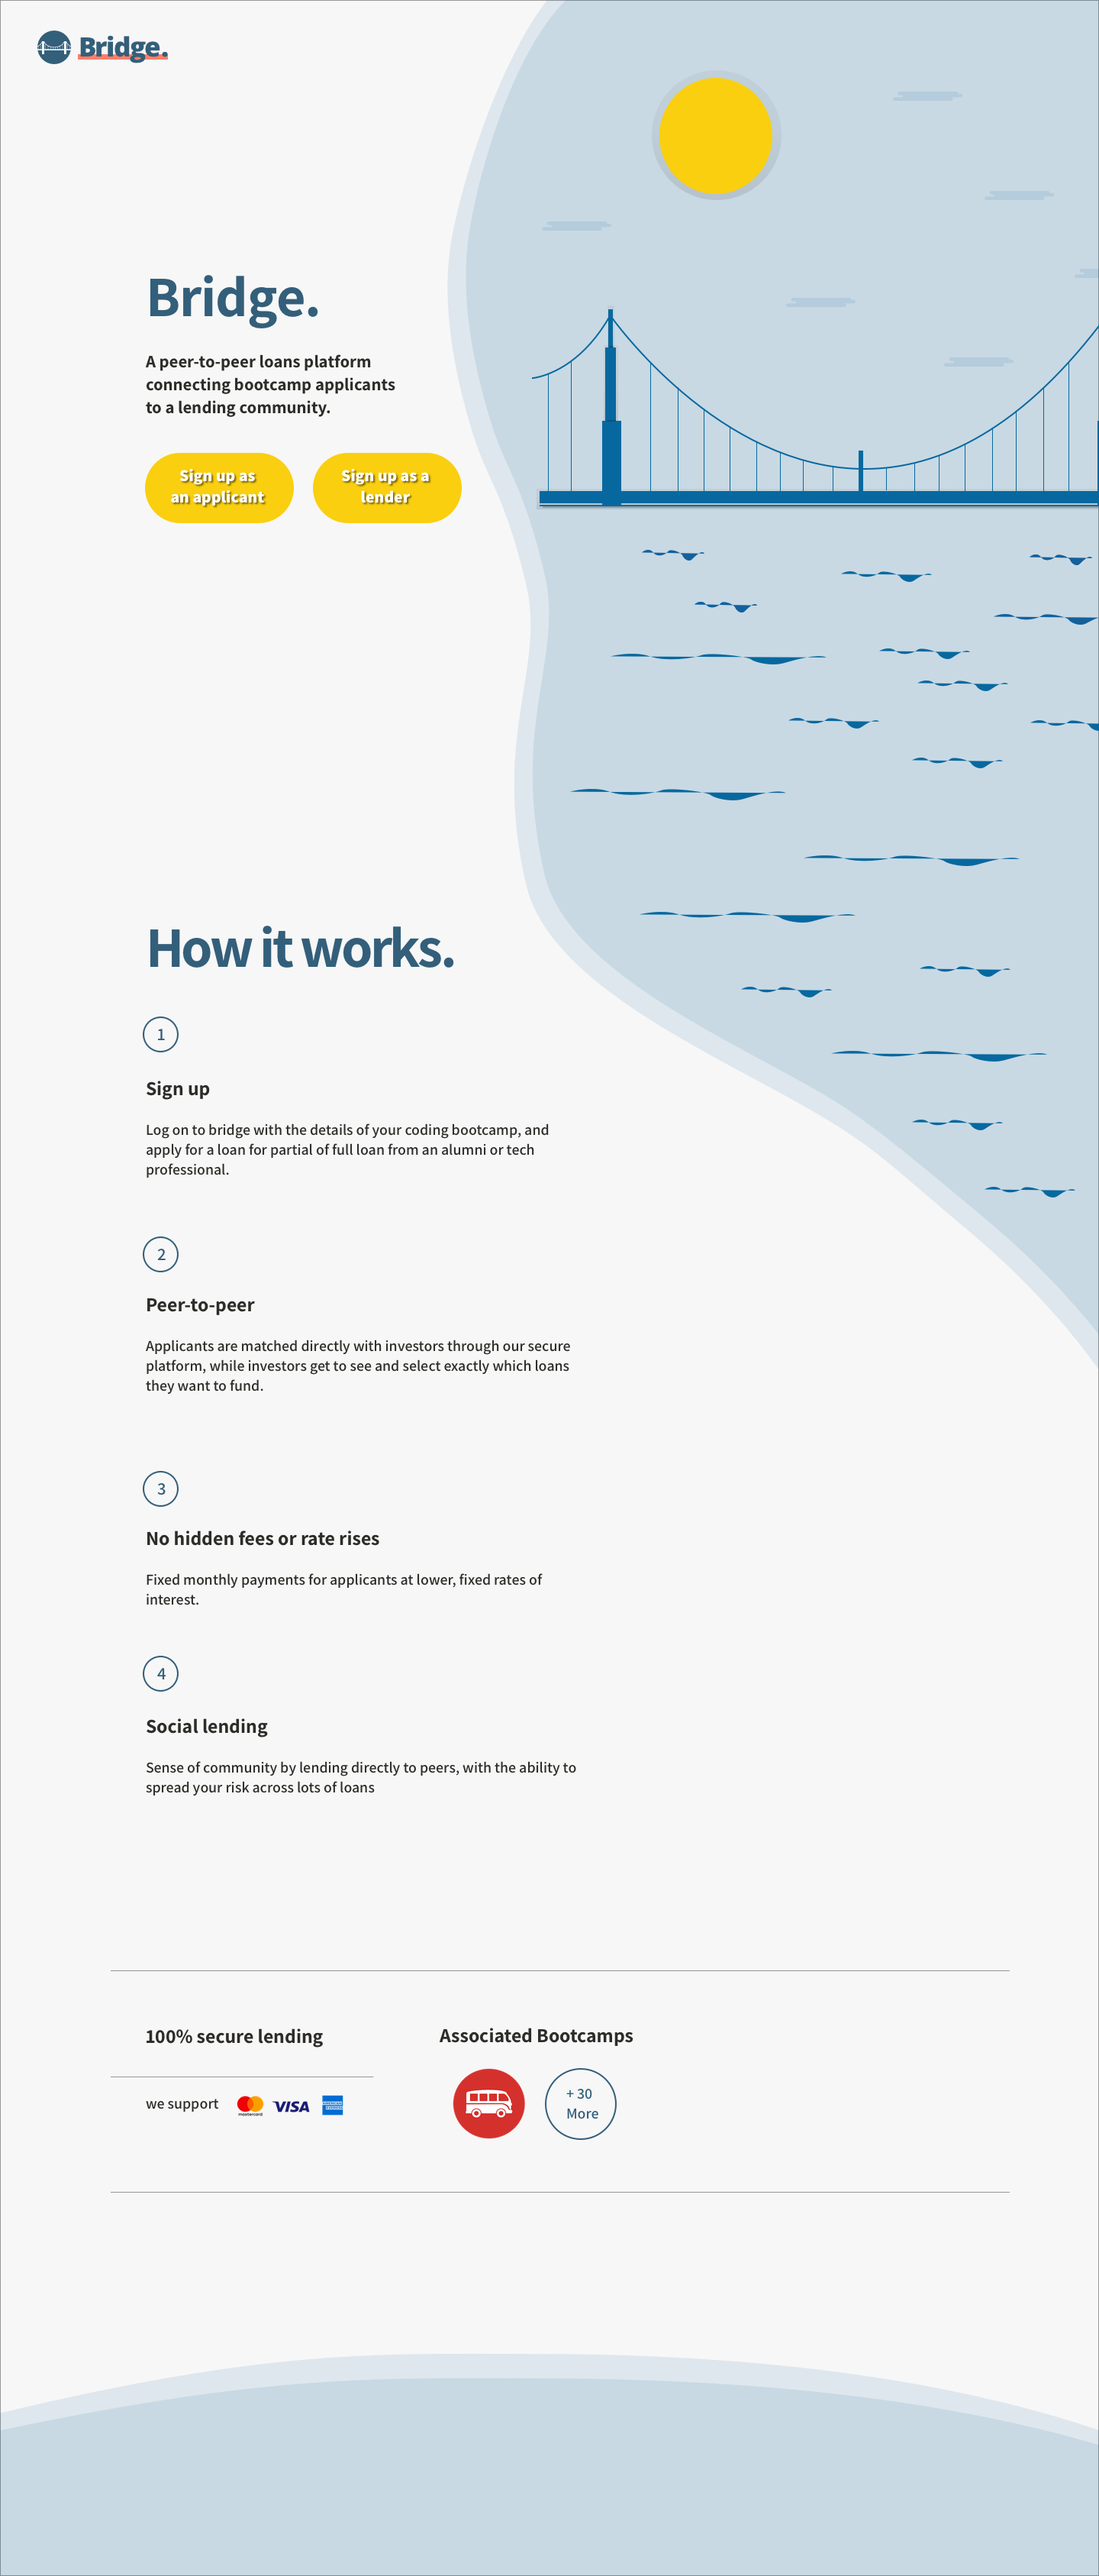
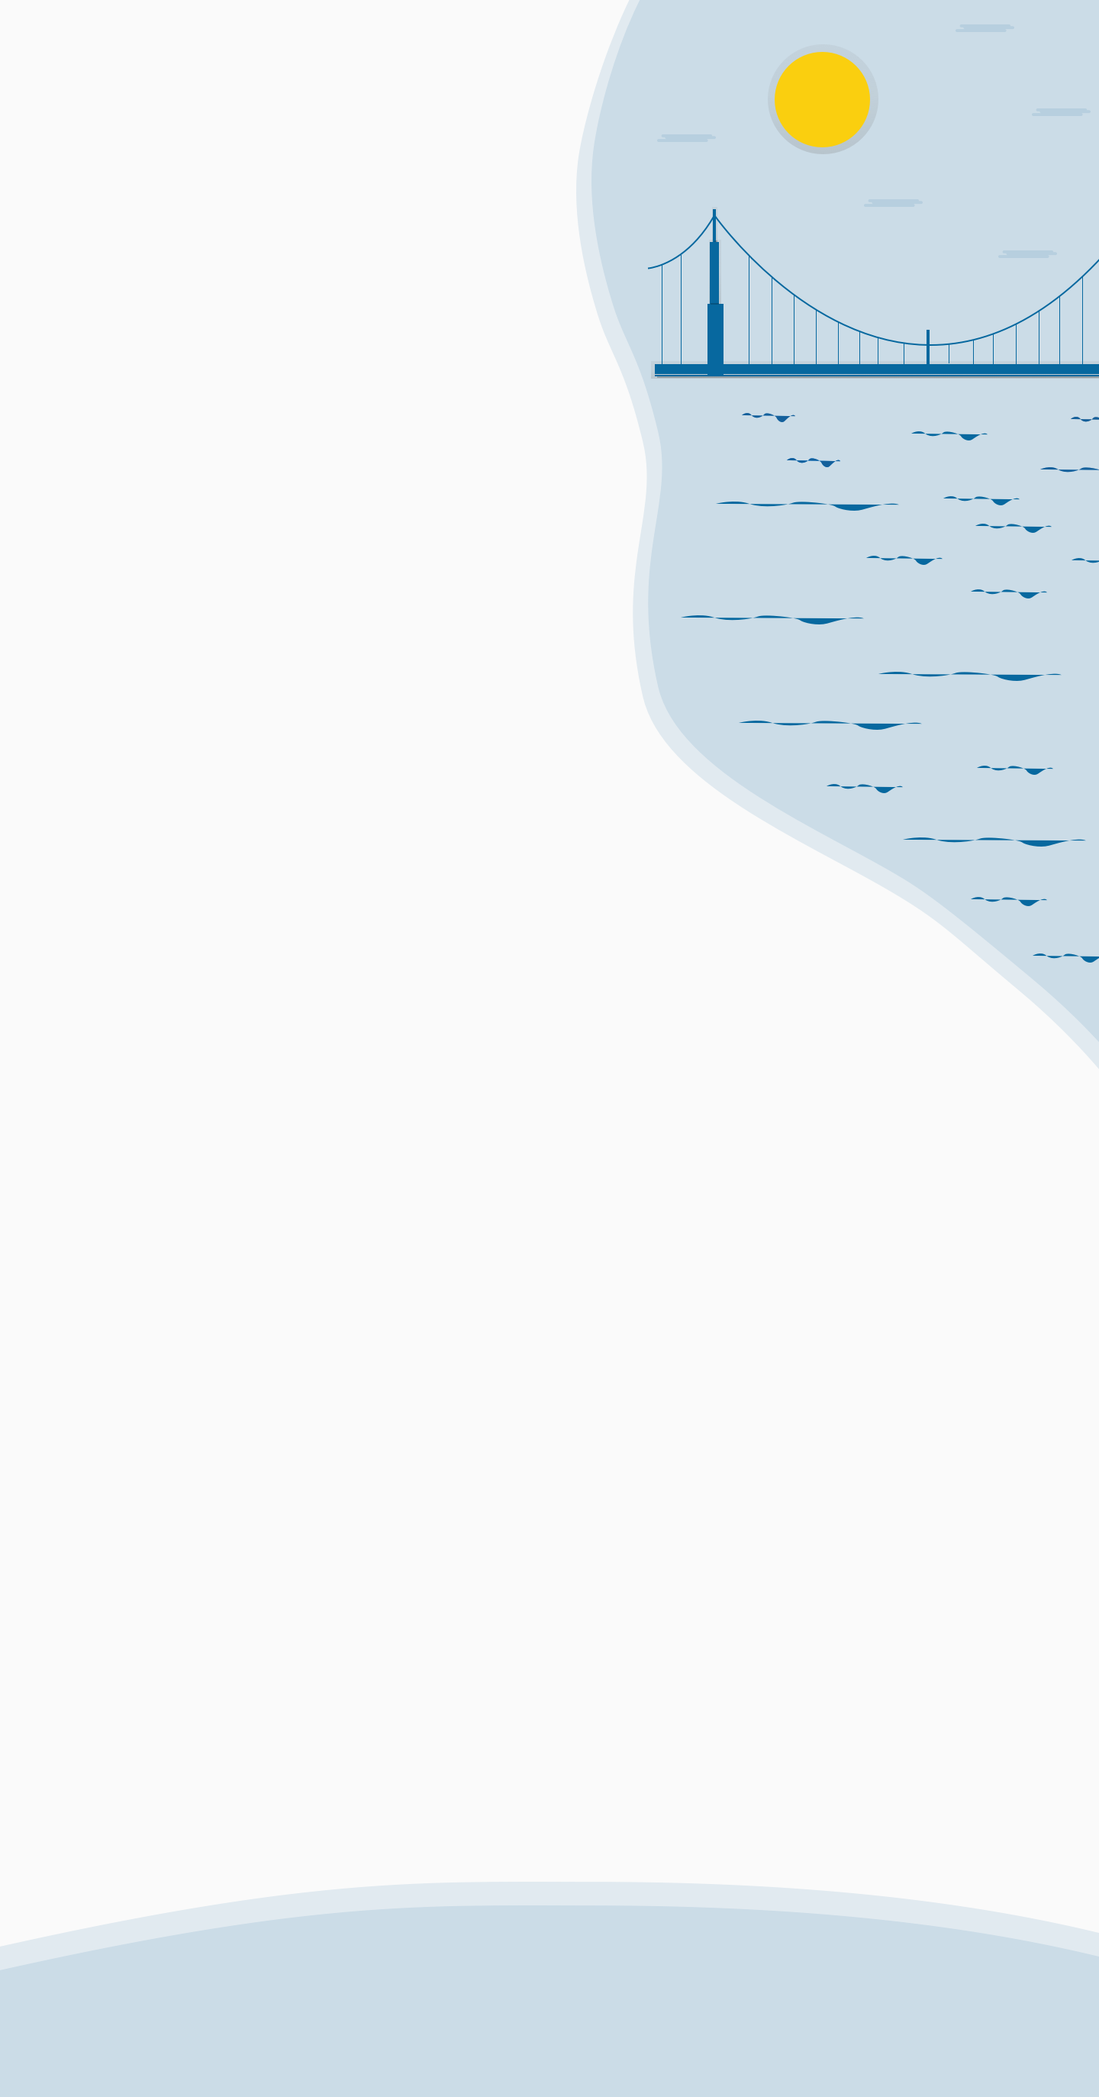
homepage work in progress

diff --git a/app/assets/stylesheets/pages/_homepage.scss b/app/assets/stylesheets/pages/_homepage.scss
@@ -4,8 +4,7 @@
   background-position: center;
   color: white;
   width: 100vw;
-  height: 3373px;
-  background-size: 1200px 3373px;
+  height: calc(2.2 * 100vw);
   background-repeat: no-repeat;
  }
  #homepage a {
@@ -64,5 +63,86 @@
   margin-top: 300px;
 }
 .gap-about {
-  margin-top: 100px;
+  margin-top: 30px;
+  font-weight: 700;
 }
+.numbers {
+  font-size: 20px !important;
+  height: 46px;
+  width: 46px;
+  color: #335F7A;
+  border: 1.5px solid #335F7A;
+  font-family: 'Assistant', sans-serif !important;
+  border-radius: 23px;
+  margin-left: 100px;
+  text-align: center;
+  padding-top: 7px;
+  margin-top: 50px;
+}
+#details-box {
+  display: flex;
+  border-top: 1px solid #979797;
+  margin: 300px 100px 0 100px;
+}
+#lending {
+  flex-basis: 35%;
+  padding: 30px 0 30px 20px;
+  border-bottom: 1px solid #979797;
+  font-size: 20px;
+  color: #2D2C28 !important;
+  font-family: 'Assistant', sans-serif !important;
+  font-weight: 700;
+  margin-bottom: 0 !important;
+}
+.bootcamps {
+  flex-basis: 65%;
+  padding: 30px 0 30px 100px;
+  font-size: 20px;
+  color: #2D2C28 !important;
+  font-family: 'Assistant', sans-serif !important;
+  font-weight: 700;
+  margin-bottom: 0 !important;
+}
+#logos-box {
+  display: flex;
+  border-bottom: 1px solid #979797;
+  margin-left: 90px;
+  margin-right: 90px;
+}
+.support {
+  width: 100px;
+  padding-top: 12px;
+  font-size: 14px;
+  color: #2D2C28 !important;
+  font-family: 'Assistant', sans-serif !important;
+  font-weight: 600;
+}
+.banks {
+  flex-basis: 35%;
+  display: flex;
+  padding: 0 70px 20px 30px;
+  align-items: center;
+  justify-content: space-between;
+}
+.credit-cards {
+  width: 30px;
+  margin: 0 5px;
+}
+.lewagon-logo {
+  width: 113px;
+  margin-right: 20px;
+  margin-left: 40px;
+}
+#thirty {
+  margin: 0;
+  font-size: 14px !important;
+  height: 100px;
+  width: 100px;
+  color: #335F7A;
+  border: 1.5px solid #335F7A;
+  font-family: 'Assistant', sans-serif !important;
+  border-radius: 50px;
+  text-align: center;
+  padding-top: 27px;
+}
+
